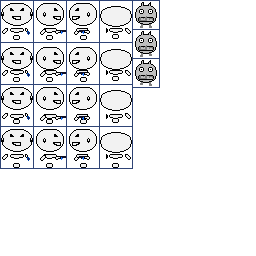
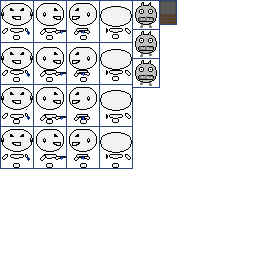
added walls

Changed region(s): [[0.625, 0.0, 0.7188, 0.125]]

diff --git a/main.js b/main.js
@@ -3,7 +3,8 @@ var w, h, spritemap, player, reloadingTime = 10, playerSpeed = 10,
     bullets = [], bulletSpeed = 20, gunDamage = 10,
     monsterWidth = 52, monsterHeight = 56, monsters = [],
     playerWidth = 32, playerHeight = 41,
-    spawnTime = 100, spawnReload = 0;
+    spawnTime = 100, spawnReload = 0,
+    mapWidth = 1024, mapHeight = 1012, wallSizeW = 32, wallSizeH = 46, wallSizeHC = 28;
 
 var preload = function() {
   spritemap = loadImage("player.png");
@@ -14,16 +15,24 @@ var setup = function() {
   h = windowHeight;
   createCanvas(w, h);
   noSmooth();
-  player = new Player(10, 10);
+  player = new Player(mapWidth/2, mapHeight/2);
 }
 
 var time = 0;
 
 var draw = function() {
+  if(player.y < 0 || player.y >= mapHeight || player.x < 0 || player.x >= mapWidth) console.log('O');
   background(color(20, 200, 20));
+  drawWalls();
+
+  if(spawnReload%spawnTime === 0) {
+    spawnEnemy();
+  }
+  spawnReload ++;
 
   player.update();
   player.draw();
+  if(keys.space || mouseIsPressed) player.shoot();
 
   for(var i=0; i<bullets.length; i++) {
     if(bullets[i].update()) continue;
@@ -34,16 +43,30 @@ var draw = function() {
     monsters[i].draw();
   }
 
-  if(keys.space || mouseIsPressed) player.shoot();
-
-  if(spawnReload%spawnTime === 0) {
-    monsters.push(new Monster(player.x+random(500)-250, player.y+random(500)-250,))
-  }
-  spawnReload ++;
+  var healthBarW = player.hp / 100 * w * 0.8;
+  // var healthBarW =10;
+  fill(color(200, 20, 20));
+  stroke(0);
+  rect(w/2 - 0.4*w, h - 20, healthBarW, 16, 5);
 
   moveIfNeed();
 
   time += 1;
+}
+
+var drawWalls = function() {
+  for(var x=0; x<=mapWidth; x+=wallSizeW) {
+    drawFraction(x-player.x+(width-wallSizeW)/2, -player.y+(height-wallSizeH)/2, wallSizeW, wallSizeH, spritesParams.wall);
+  }
+  for(var y=0; y<=mapHeight; y+=wallSizeHC) {
+    drawFraction(-player.x+(width-wallSizeW)/2, y-player.y+(height-wallSizeH)/2, wallSizeW, wallSizeH, spritesParams.wall);
+  }
+  for(var y=0; y<=mapHeight; y+=wallSizeHC) {
+    drawFraction(mapWidth-player.x+(width-wallSizeW)/2, y-player.y+(height-wallSizeH)/2, wallSizeW, wallSizeH, spritesParams.wall);
+  }
+  for(var x=0; x<=mapWidth; x+=wallSizeW) {
+    drawFraction(x-player.x+(width-wallSizeW)/2, mapHeight-player.y+(height-wallSizeH)/2, wallSizeW, wallSizeH, spritesParams.wall);
+  }
 }
 
 var keyPressed = function() {
@@ -62,6 +85,25 @@ var keyReleased = function() {
   else if(key === ' ') keys.space = false;
 }
 
+var spawnEnemy = function() {
+  for(var attempt=0; attempt<30; attempt++) {
+    var x = random(wallSizeW, mapWidth-wallSizeW),
+        y = random(wallSizeH, mapHeight-wallSizeHC-monsterHeight/2),
+        mon = new Monster(x, y),
+        collide = false;
+    for(var i=0; i<monsters.length; i++) {
+      if(myIntersect(mon, monsters[i])) {
+        collide = true;
+        break;
+      }
+    }
+    if(collide) {
+      continue;
+    }
+    monsters.push(mon);
+    break;
+  }
+}
 
 var moveIfNeed = function() {
   var vx = 0,
@@ -74,6 +116,9 @@ var moveIfNeed = function() {
   var vec = createVector(vx, vy);
   vec.normalize();
   vec.mult(playerSpeed);
+
+  if( player.x + vec.x-wallSizeW+2 < 0 || player.x + vec.x-2+wallSizeW >= mapWidth ) vec.x = 0;
+  if( player.y + vec.y-4 < 0 || player.y + vec.y+wallSizeH-10 >= mapHeight ) vec.y = 0;
 
   player.x += vec.x;
   player.y += vec.y;

diff --git a/monster.js b/monster.js
@@ -10,8 +10,15 @@ Monster.prototype.update = function () {
     monsters.splice(monsters.indexOf(this), 1);
     return true;
   }
+  var vec = createVector()
 };
 Monster.prototype.draw = function() {
   drawFraction( this.x-player.x+(width-monsterWidth)/2, this.y-player.y+(height-monsterHeight)/2, monsterWidth, monsterHeight, spritesParams.monster[round(this.animationFrame)%3] )
   this.animationFrame += 0.2;
+
+  var hprectwidth = this.hp/100 * monsterWidth;
+  fill(color(250, 20, 20));
+  // strokeWidth(1);
+  stroke(0);
+  rect(this.x-player.x+(width-monsterWidth)/2, this.y-player.y+(height-monsterHeight)/2-2, hprectwidth, 1, 0.25 );
 }

diff --git a/sprites.js b/sprites.js
@@ -29,7 +29,8 @@ var spritesParams = {
     { sx: 133, sy: 1, sw: 26, sh: 28 },
     { sx: 133, sy: 30, sw: 26, sh: 28 },
     { sx: 133, sy: 59, sw: 26, sh: 28 }
-  ]
+  ],
+  wall: { sx: 160, sy: 1, sw: 16, sh: 23 }
 };
 
 

diff --git a/player.js b/player.js
@@ -4,7 +4,7 @@ var Player = function(x, y) {
   this.angle = 0;
   this.lookDir = 0;
   this.collisionRect = { w: playerWidth/5*4, h: playerHeight/5*4 };
-
+  this.hp = 100;
   this.animationFrame = 0;
   this.reload = 0;
 }
